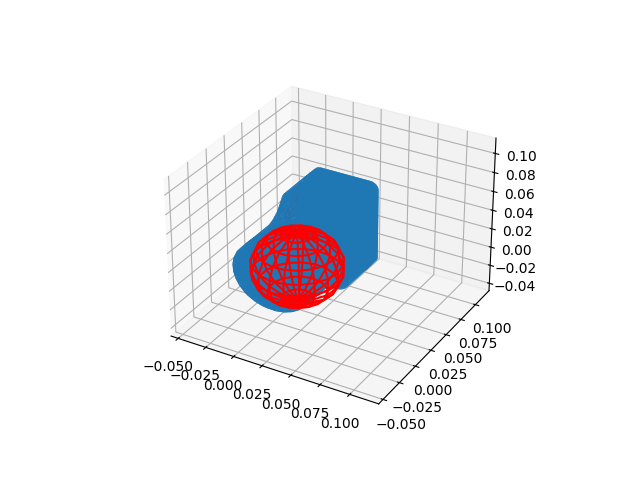
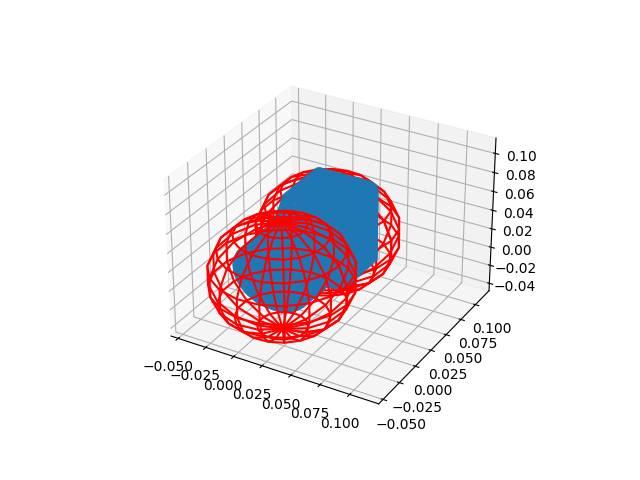
Update random capsule generation logic and modify capsule parameters in URDF files

Changed region(s): [[0.3125, 0.3438, 0.625, 0.7188]]

diff --git a/jrl/scripts/calculate_capsule_approximation.py b/jrl/scripts/calculate_capsule_approximation.py
@@ -73,7 +73,7 @@ def random_choice_optimal_capsule(vertices: torch.Tensor):
     # Beispiel: Skaliert basierend auf Bounding Box des STL
     p1s = bbox_min + (bbox_max - bbox_min) * torch.rand(nsamples, 3, device=device)
     p2s = bbox_min + (bbox_max - bbox_min) * torch.rand(nsamples, 3, device=device)
-    rs = bbox_diag * 0.2 * torch.rand(nsamples, device=device) + bbox_diag * 0.05
+    rs = bbox_diag * 0.37 * torch.rand(nsamples, device=device) + bbox_diag * 0.05
 
     print(f"random_choice_optimal_capsule() | Sampled {nsamples} capsules")
     print("Shape for distance computation:", nsamples * vertices.shape[0])
@@ -94,10 +94,12 @@ def random_choice_optimal_capsule(vertices: torch.Tensor):
         p1, p2, r = p1s[mask][i], p2s[mask][i], rs[mask][i]
     else:
         # Fallback: besten Kandidaten mit minimalem Überschuss nehmen
-        min_dist, i = torch.min(maxdists, dim=0)
-        print("No valid capsule found within margin.")
-        print(f"Using approximate best with maxdist={min_dist.item():.5f}")
+        volume = capsule_volume_batch(p1s, p2s, rs)  # (nsamples,)
+        target_margin = 0.02 * scale  # oder z. B. 0.03 * scale
+        score = (maxdists - target_margin) ** 2 + 0.5 * volume  # Gewichtung anpassbar
+        _, i = torch.min(score, dim=0)
         p1, p2, r = p1s[i], p2s[i], rs[i]
+
 
     return p1, p2, r
 
